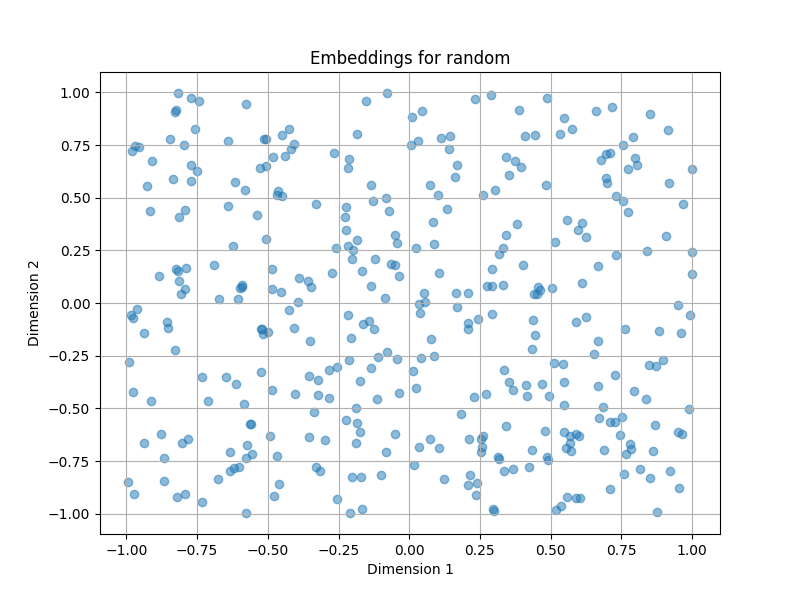
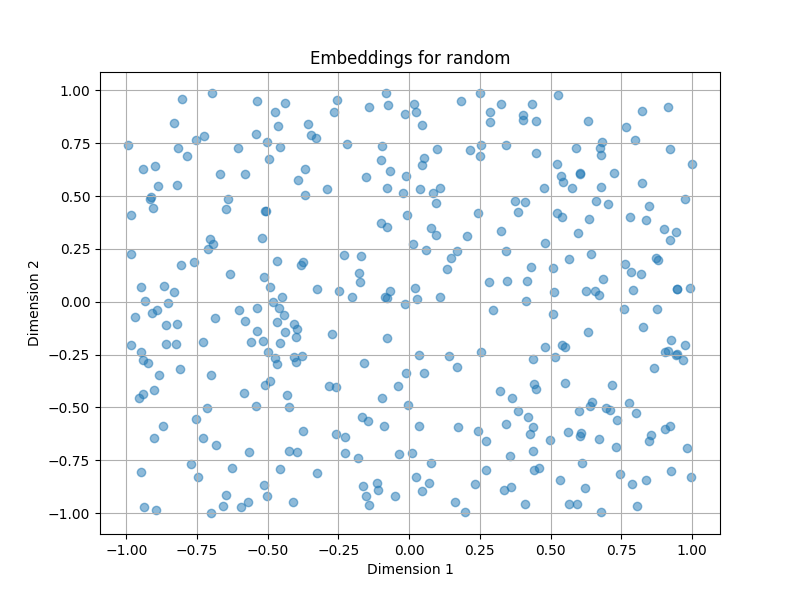
some cleanup and embedding descriptive plots

diff --git a/main.py b/main.py
@@ -14,6 +14,7 @@ from transformers import AutoTokenizer
 
 train_data_path = "folkrnn/data/ONeillsJigs_parsed_wot"
 embedding = "clamp" # options: "clamp", "clap", "muq", "folkrnn", "random"
+methods = ["euclidean", "cosine"] # options: "euclidean", "cosine", "cl", "matching", "hamming", "jaccard", "orchini", "sorencen-dice", "tanimoto", "tucker", "tversky"
 CLAMP_MODEL_NAME = "sander-wood/clamp-small-512"
 
 
@@ -112,7 +113,7 @@ def clap(tune_fname):
 
     fnames = os.listdir(tune_fname)
     tune_fnames = [os.path.join(tune_fname, f) for f in fnames if f.endswith(".wav")]
-    print("Loaded wav files for CLAP embedding: ", tune_fnames)
+    print(f"Loaded wav files for CLAP embedding: ", tune_fnames)
 
     # Initialize CLAP model
     model = laion_clap.CLAP_Module(enable_fusion=False)
@@ -129,9 +130,9 @@ def clap(tune_fname):
         #print("Audio embed first 20:", audio_embed[:,-20:])
         #print("Audio embed shape:", audio_embed.shape)
         res.append(audio_embed[0])
+        i += 1
         if i % 10 == 0:
             print("Extracted CLAP embeddings for {} / {} wav files".format(i, n_files))
-        i += 1
     return res
 
 def muq(tune_fname):
@@ -150,7 +151,6 @@ def muq(tune_fname):
     print("Extracting MuQ-MuLan embeddings for {} wav files...".format(n_files))
     i = 0
     for wav_fname in tune_fnames:
-        wav, sr = librosa.load(wav_fname, sr = 24000)
 
         # Extract music embeddings
         wav, sr = librosa.load(wav_fname, sr = 24000)
@@ -158,20 +158,12 @@ def muq(tune_fname):
         with torch.no_grad():
             audio_embeds = mulan(wavs = wavs) 
 
-        # Extract text embeddings (texts can be in English or Chinese)
-        texts = ["classical genres, hopeful mood, piano.", "一首适合海边风景的小提琴曲，节奏欢快"]
-        with torch.no_grad():
-            text_embeds = mulan(texts = texts)
-
-        # Calculate dot product similarity
-        sim = mulan.calc_similarity(audio_embeds, text_embeds)
-        print(sim)
         # Convert audio_embeds to list and append to res
         res.append(audio_embeds[0].cpu().numpy().tolist())
 
-        if i % 10 == 0:
-            print("Extracted CLAP embeddings for {} / {} wav files".format(i, n_files))
         i += 1
+        if i % 10 == 0:
+            print("Extracted MuQ-MuLan embeddings for {} / {} wav files".format(i, n_files))
     return res
 
 def folkrnn_embed(tunes):
@@ -181,7 +173,7 @@ def folkrnn_embed(tunes):
         pass#TODO
     return res
 
-def compute_dist(e1, e2, methods = [], method = None):
+def compute_dist(e1, data, methods = [], method = None):
     if methods != [] and method != None:
         raise ValueError("Either methods or method should be provided, not both")
     if methods == []:
@@ -192,13 +184,19 @@ def compute_dist(e1, e2, methods = [], method = None):
     res = {}
     for m in methods:
         if m == "euclidean":
-            dist = sum([(a-b)**2 for a,b in zip(e1,e2)])**0.5
+            dists = []
+            for e2 in data:
+                dist = sum([(a-b)**2 for a,b in zip(e1,e2)])**0.5
+                dists.append(dist)
         elif m == "cosine":
             # Cosine similarity
-            dot_product = sum([a*b for a,b in zip(e1,e2)])
-            norm_e1 = sum([a**2 for a in e1])**0.5
-            norm_e2 = sum([b**2 for b in e2])**0.5
-            dist = 1 - dot_product / (norm_e1 * norm_e2)
+            dists = []
+            for e2 in data:
+                dot_product = sum([a*b for a,b in zip(e1,e2)])
+                norm_e1 = sum([a**2 for a in e1])**0.5
+                norm_e2 = sum([b**2 for b in e2])**0.5
+                dist = 1 - dot_product / (norm_e1 * norm_e2)
+                dists.append(dist)
         elif m == "cl":
             #Contrastive learning encoding distance
             pass
@@ -223,12 +221,12 @@ def compute_dist(e1, e2, methods = [], method = None):
         elif m == "tucker":
             # Tucker coefficient of congruence
             pass # i guess this is just cosine similarity?
-        elif m == "Tversky":
+        elif m == "tversky":
             # Tversky index
             pass # For sets
         else:
             raise ValueError("Unsupported distance method: {}".format(m))
-        res[m] = dist
+        res[m] = dists
     return res
 
 
@@ -246,6 +244,7 @@ if __name__ == "__main__":
 
     
     plotting.plot_embeddings(embedded_data, embedding)
+    plotting.plot_embeddings_pca(embedded_data, embedding)
 
 
     #TODO pick/generate output?
@@ -255,14 +254,21 @@ if __name__ == "__main__":
 
 
 
-    m = "cosine"
-    out_dists = []
-    for e in embedded_data:
-        dist = compute_dist(e, e_out, method = m)
-        out_dists.append(dist[m])
-
+    out_dists = compute_dist(e_out, embedded_data, methods = methods)
     
-    plotting.plot_distance_distribution(out_dists, embedding+"_"+m)
+    
+    
+    
+    
+    #for e in embedded_data:
+    #    dist = compute_dist(e, e_out, method = method)
+    #    out_dists.append(dist[method])
+
+    print(out_dists["euclidean"])
+
+    for m in out_dists.keys():
+        plotting.plot_distance_distribution(out_dists[m], embedding+"_"+m)
+    
     
     
 

diff --git a/plotting.py b/plotting.py
@@ -3,7 +3,6 @@ import math
 
 
 def plot_embeddings(embeddings, name):
-    #TODO use dimensionality reduction instead here
     plt.clf()
     plt.figure(figsize=(8, 6))
     xx = [e[0] for e in embeddings]
@@ -14,6 +13,23 @@ def plot_embeddings(embeddings, name):
     plt.ylabel('Dimension 2')
     plt.grid()
     plt.savefig(f"plots/embeddings_{name}.png")
+
+
+def plot_embeddings_pca(embeddings, name):
+    from sklearn.decomposition import PCA
+    pca = PCA(n_components=2)
+    reduced_embeddings = pca.fit_transform(embeddings)
+
+    plt.clf()
+    plt.figure(figsize=(8, 6))
+    xx = [e[0] for e in reduced_embeddings]
+    yy = [e[1] for e in reduced_embeddings]
+    plt.scatter(xx, yy, alpha=0.5)
+    plt.title(f"PCA-reduced Embeddings for {name}")
+    plt.xlabel('Principal Component 1')
+    plt.ylabel('Principal Component 2')
+    plt.grid()
+    plt.savefig(f"plots/embeddings_pca_{name}.png")
 
 
 def plot_distance_distribution(dists, name, t_step=0.05):

diff --git a/clamp.py b/clamp.py
@@ -39,8 +39,8 @@ if __name__ == "__main__":
 
 
     # encode query
-    query_ids = encoding_data([query], QUERY_MODAL, patchilizer, music_length)
-    query_feature = get_features(query_ids, QUERY_MODAL, model, device)
+    query_ids = encoding_data([query], patchilizer, music_length)
+    query_feature = get_features(query_ids, model, device)
 
     print(query_feature.shape)
     print(query_feature[:20])
